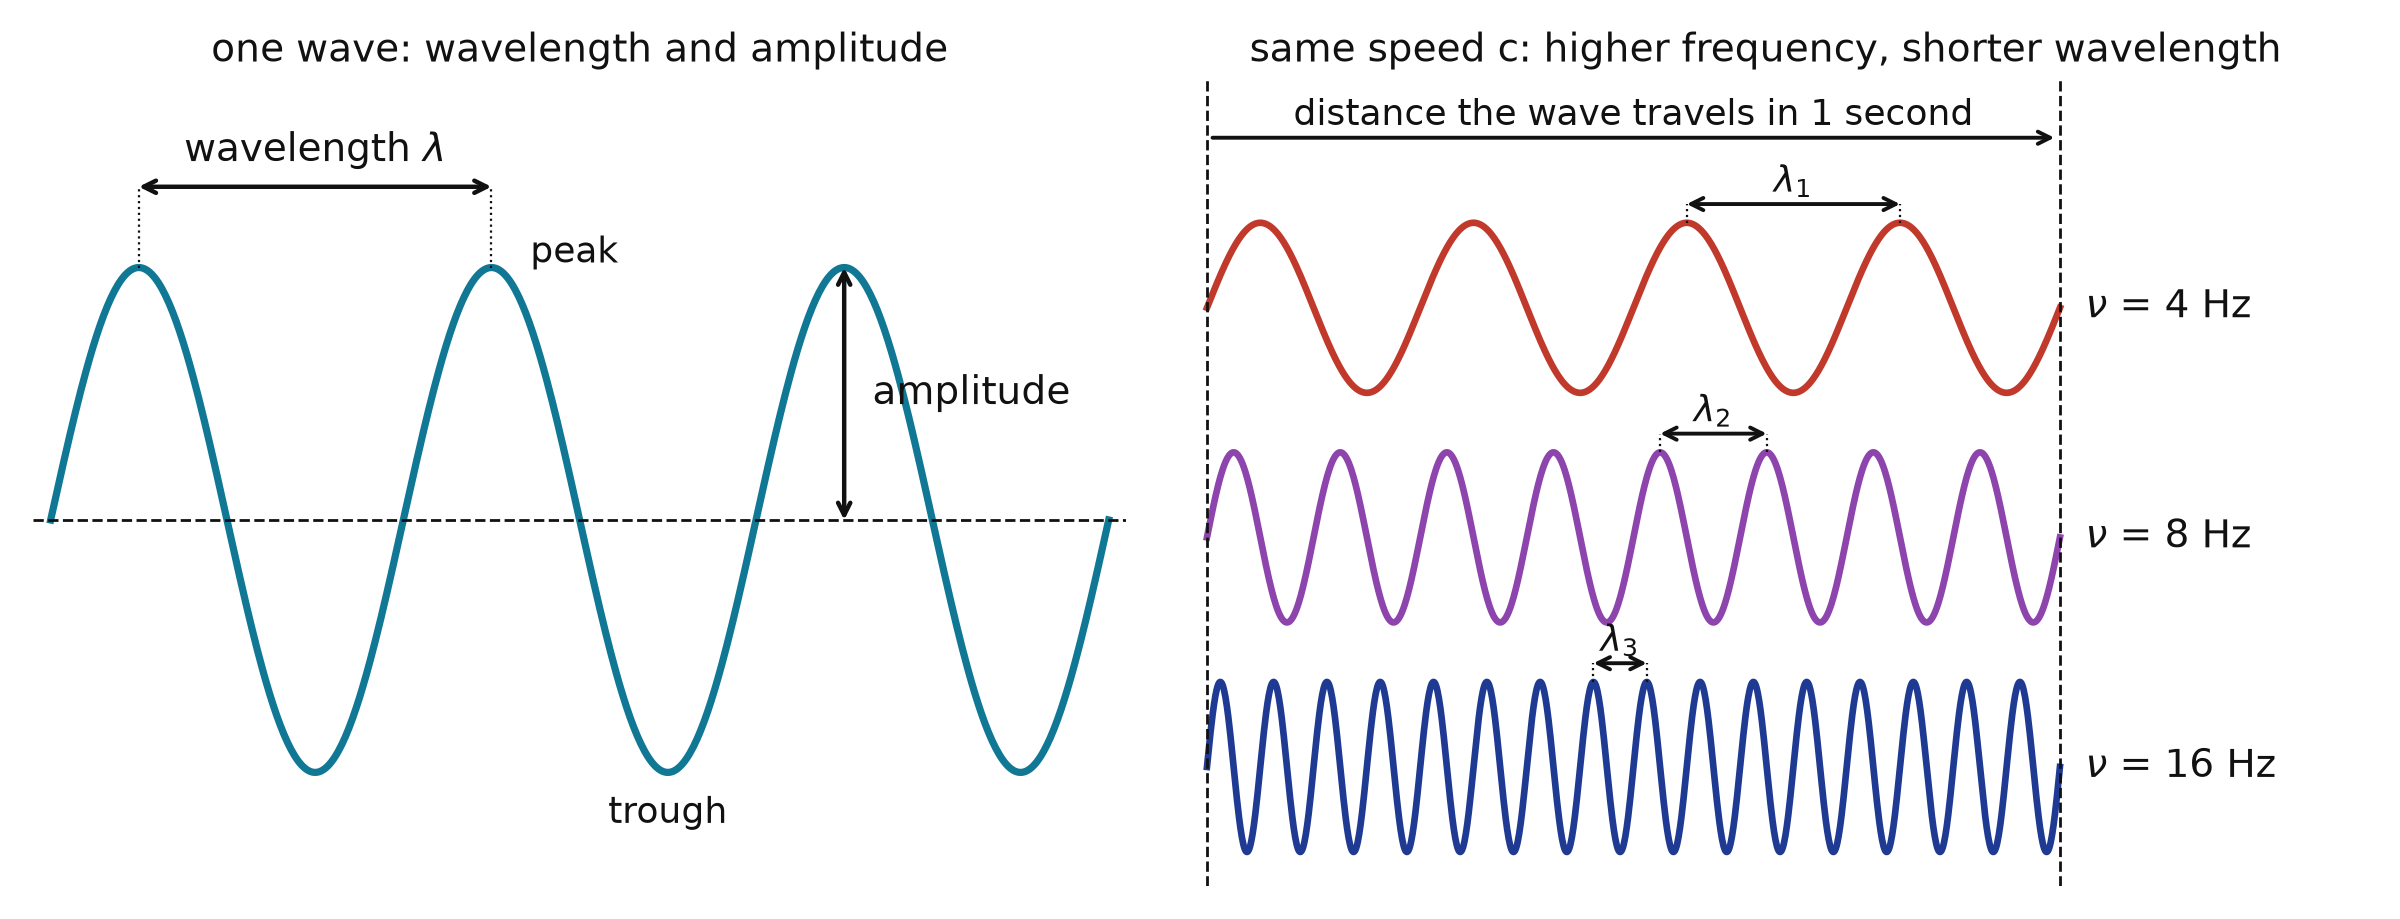
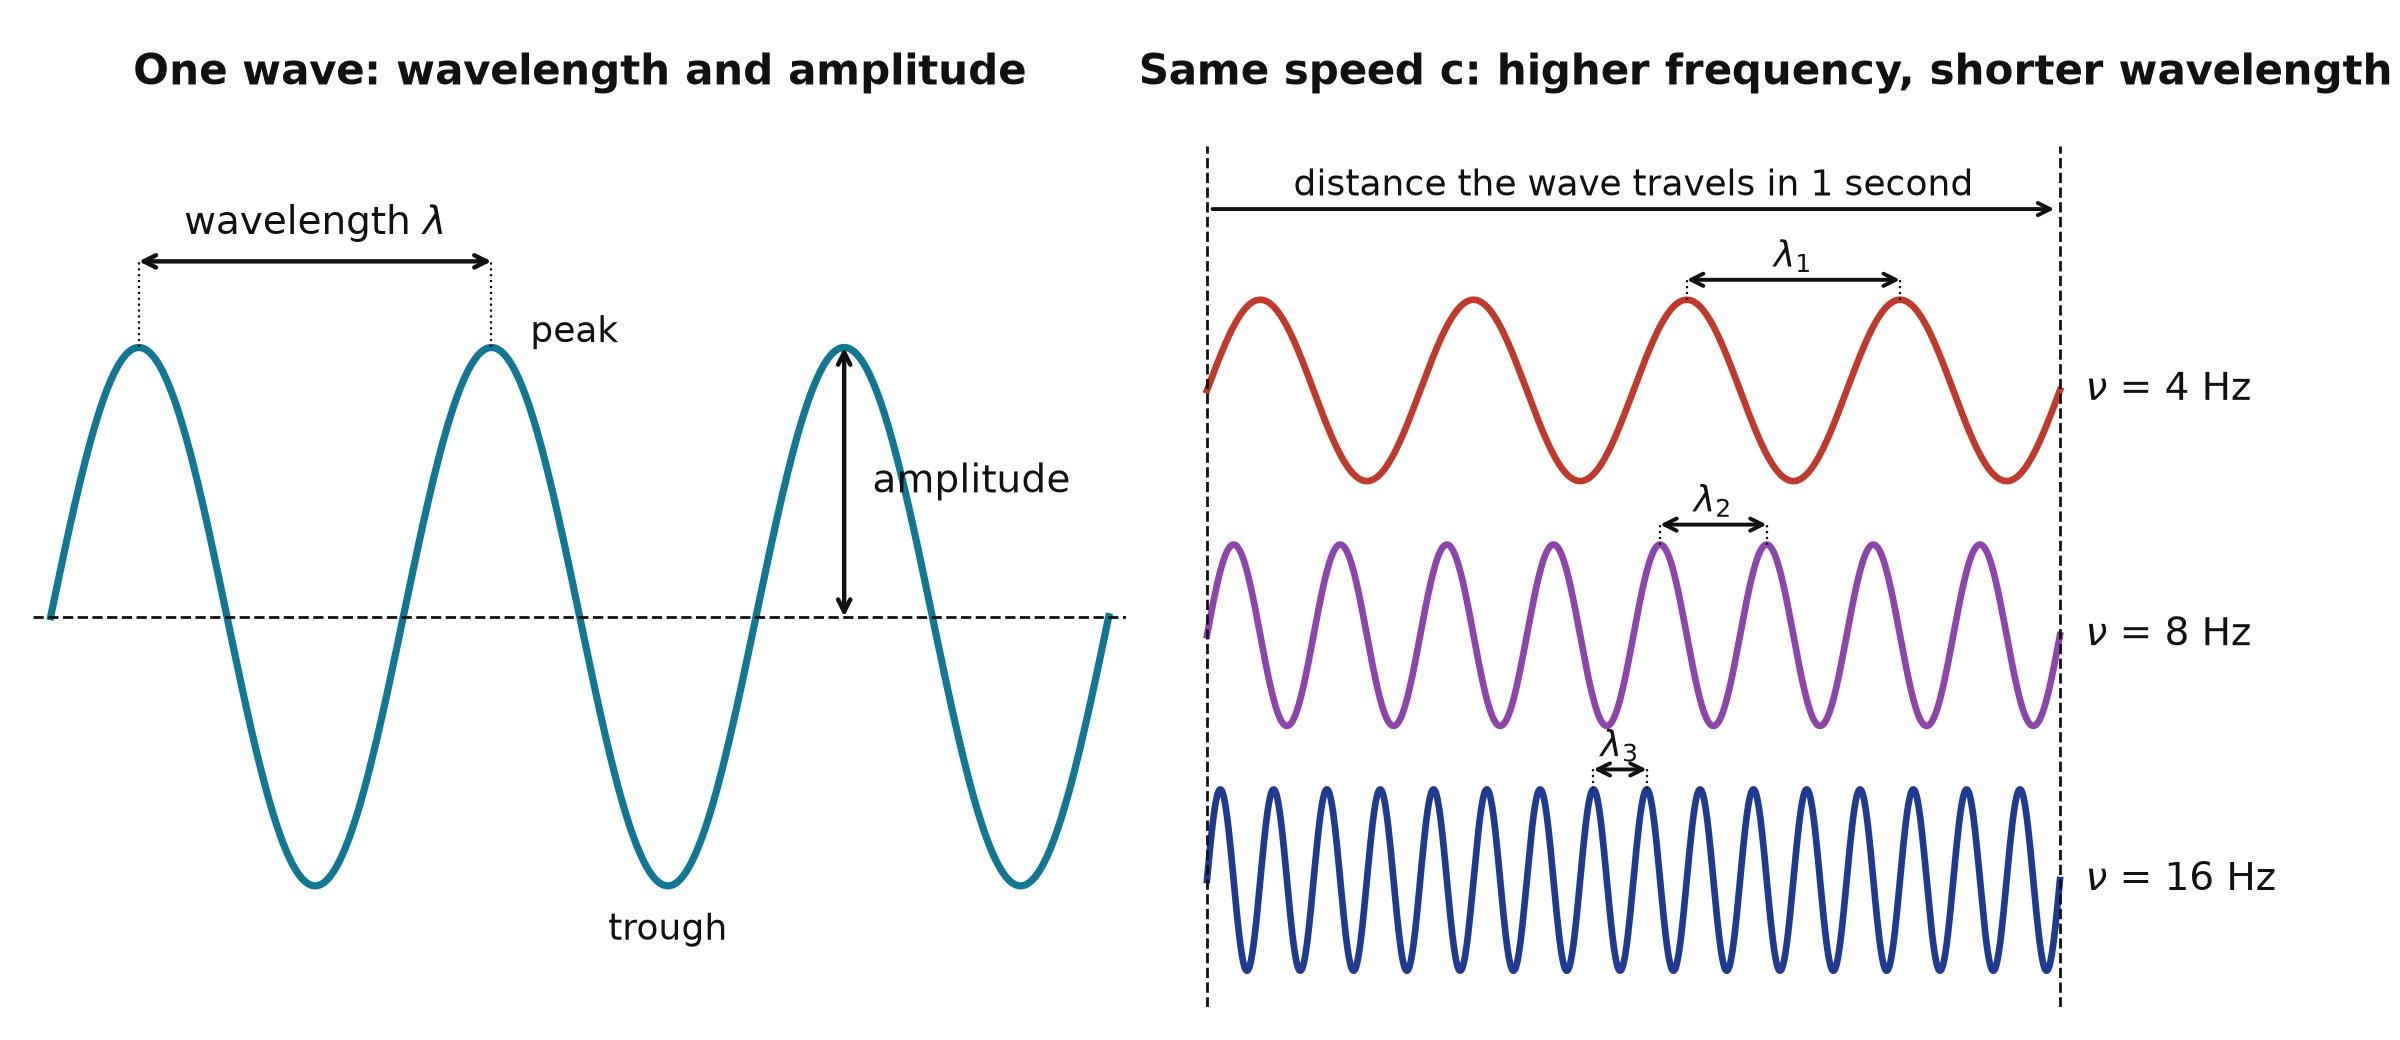
'cleanup quantization'

diff --git a/scripts/make_ch01_figures.py b/scripts/make_ch01_figures.py
@@ -89,9 +89,40 @@ ax.set_xlabel(r"frequency $\nu$ (10$^{14}$ Hz)"); ax.set_ylabel(r"energy density
 ax.legend(frameon=False, fontsize=9.5, loc="center right", title="temperature", title_fontsize=9.5)
 fig.tight_layout(); fig.savefig(f"{OUT}/planck_curves_nu.png", dpi=200)
 
+# ---------------------------------------------------------------- 2c. counting wave modes in a box
+BLACK = "#111111"
+fig, (b1, b2) = plt.subplots(1, 2, figsize=(11, 4.6), gridspec_kw={"width_ratios": [1, 1]})
+L = 1.0; xb = np.linspace(0, L, 400)
+for n in [1, 2, 3, 4]:
+    y0 = -(n - 1) * 1.5
+    b1.plot(xb, y0 + 0.55 * np.sin(n * np.pi * xb / L), color=HOT2COLD[min(n, 4)], lw=2.4)
+    b1.plot([0, L], [y0, y0], color="#bbb", lw=0.8)
+    b1.text(L + 0.05, y0, rf"$n$ = {n}:  $\lambda_n = 2L/{n}$,  $\nu_n = {n}\,c/2L$", va="center", fontsize=12, color=BLACK)
+b1.axvline(0, color=BLACK, lw=2.5); b1.axvline(L, color=BLACK, lw=2.5)
+b1.annotate("", xy=(L, 1.0), xytext=(0, 1.0), arrowprops=dict(arrowstyle="<->", color=BLACK, lw=1.3))
+b1.text(L / 2, 1.1, "box of size L", ha="center", fontsize=12, color=BLACK)
+b1.set_xlim(-0.1, 2.6); b1.set_ylim(-5.3, 1.5); b1.axis("off")
+b1.set_title("Standing waves that fit in a box", fontsize=14, fontweight="bold", color=BLACK, pad=14)
+# mode lattice in 2D: each dot is a mode (n_x, n_y); frequency grows with distance from the origin
+N = 12; R1, R2 = 6.0, 9.0
+nx, ny = np.meshgrid(np.arange(1, N + 1), np.arange(1, N + 1))
+r = np.sqrt(nx**2 + ny**2)
+b2.scatter(nx[r > R2], ny[r > R2], s=14, color="#cccccc")
+b2.scatter(nx[(r > R1) & (r <= R2)], ny[(r > R1) & (r <= R2)], s=18, color=CARDINAL)
+b2.scatter(nx[r <= R1], ny[r <= R1], s=18, color=TEAL)
+th = np.linspace(0, np.pi / 2, 200)
+b2.plot(R1 * np.cos(th), R1 * np.sin(th), color=TEAL, lw=2); b2.plot(R2 * np.cos(th), R2 * np.sin(th), color=CARDINAL, lw=2)
+b2.text(R1 * 0.72 + 0.35, R1 * 0.72 + 0.35, r"$\nu$", color=TEAL, fontsize=14, ha="left", va="bottom", bbox=dict(fc="white", ec="none", pad=1))
+b2.text(R2 * 0.72 + 0.35, R2 * 0.72 + 0.35, r"$\nu + d\nu$", color=CARDINAL, fontsize=14, ha="left", va="bottom", bbox=dict(fc="white", ec="none", pad=1))
+b2.set_xlim(0, N + 1); b2.set_ylim(0, N + 1); b2.set_aspect("equal")
+b2.set_xlabel(r"$n_x$", fontsize=13, color=BLACK); b2.set_ylabel(r"$n_y$", fontsize=13, color=BLACK)
+b2.set_xticks([]); b2.set_yticks([])
+b2.set_title("Each dot is a mode, further out is higher frequency", fontsize=13, fontweight="bold", color=BLACK, pad=14)
+fig.tight_layout(); fig.savefig(f"{OUT}/mode_counting.png", dpi=200)
+
 # ---------------------------------------------------------------- 3. wave definitions
 BLACK = "#111111"
-fig, (a1, a2) = plt.subplots(1, 2, figsize=(12, 4.6), gridspec_kw={"width_ratios": [1, 1.1]})
+fig, (a1, a2) = plt.subplots(1, 2, figsize=(12, 5.2), gridspec_kw={"width_ratios": [1, 1.1]})
 x = np.linspace(0, 3, 600); A = 1.0
 a1.plot(x, A * np.sin(2 * np.pi * x), color=TEAL, lw=2.6)
 a1.axhline(0, color=BLACK, ls="--", lw=1)
@@ -103,7 +134,7 @@ a1.annotate("", xy=(2.25, 1.0), xytext=(2.25, 0.0), arrowprops=dict(arrowstyle="
 a1.text(2.33, 0.5, "amplitude", va="center", color=BLACK, fontsize=14)
 a1.text(1.36, 1.02, "peak", ha="left", fontsize=13, color=BLACK); a1.text(1.75, -1.2, "trough", ha="center", fontsize=13, color=BLACK)
 a1.set_xlim(-0.05, 3.05); a1.set_ylim(-1.45, 1.75); a1.axis("off")
-a1.set_title("one wave: wavelength and amplitude", fontsize=14, color=BLACK)
+a1.set_title("One wave: wavelength and amplitude", fontsize=15, fontweight="bold", color=BLACK, pad=22)
 xs = np.linspace(0, 1, 1200)
 for k, (nu_k, col) in enumerate(zip([4, 8, 16], [HOT2COLD[0], HOT2COLD[2], HOT2COLD[4]])):
     y0 = -k * 2.7
@@ -118,8 +149,9 @@ a2.axvline(0, color=BLACK, ls="--", lw=1); a2.axvline(1, color=BLACK, ls="--", l
 a2.annotate("", xy=(1, 2.0), xytext=(0, 2.0), arrowprops=dict(arrowstyle="->", color=BLACK, lw=1.4))
 a2.text(0.5, 2.15, "distance the wave travels in 1 second", ha="center", fontsize=13, color=BLACK)
 a2.set_xlim(-0.05, 1.36); a2.set_ylim(-6.8, 2.7); a2.axis("off")
-a2.set_title("same speed c: higher frequency, shorter wavelength", fontsize=14, color=BLACK)
-fig.tight_layout(); fig.savefig(f"{OUT}/wave_definitions.png", dpi=200)
+a2.set_title("Same speed c: higher frequency, shorter wavelength", fontsize=15, fontweight="bold", color=BLACK, pad=22)
+fig.tight_layout(h_pad=1.0); fig.subplots_adjust(top=0.86)
+fig.savefig(f"{OUT}/wave_definitions.png", dpi=200)
 
 # ---------------------------------------------------------------- 4. Bohr standing waves
 fig, axes = plt.subplots(1, 2, figsize=(9, 4.4))

diff --git a/ch01/02-the-need-for-quantization.md b/ch01/02-the-need-for-quantization.md
@@ -132,19 +132,33 @@ Predictions of classical and quantum mechanics diverge in the high-frequency (sh
 
 - **What is radiation in classical mechanics?** Radiation is considered a wave with frequency $\nu$. In a heated body, naturally vibrating springs (which represent atoms or molecules) generate waves with the same frequency.
 
-:::{figure} ./images/phonons.gif
-:label: fig-the-need-for-quantization-7
-:alt: ultraviolet catastrophe
-:width: 60%
+:::{tip} **How many waves fit in a box?**
 
-Visualization of atomic vibrations in a solid body. These vibrational modes are called phonons, not to be confused with the photons introduced in the next section.
+```{figure} ./images/mode_counting.png
+:alt: standing waves in a box and the lattice of allowed modes
+:width: 95%
+
+Left: only waves with a node at each wall fit in a box of size $L$, so $\lambda_n = 2L/n$ and $\nu_n = n\,c/2L$. Right: in two dimensions each allowed mode is a dot $(n_x, n_y)$, and its frequency is proportional to the distance from the origin. The modes between $\nu$ and $\nu + d\nu$ fill a thin ring.
+```
+
+1. A wave fits in the box only if a whole number of half-wavelengths spans it: $n = 1, 2, 3, \ldots$ in each direction.
+2. The frequency of a mode $(n_x, n_y, n_z)$ is $\nu = \frac{c}{2L}\sqrt{n_x^2 + n_y^2 + n_z^2}$, so all modes with frequency below $\nu$ sit inside a sphere of radius $2L\nu/c$ in "mode space."
+3. The number of modes below $\nu$ is the volume of that sphere, $\propto \nu^3$. The number in a thin shell $[\nu, \nu + d\nu]$ is its surface times $d\nu$, $\propto \nu^2 d\nu$.
 :::
 
-- **Packing wave modes in a box.** One can fit more high-frequency (short-wavelength) waves in the box than low-frequency ones. The number of waves we can fit in a cubic box in the frequency region $[\nu, \nu+d\nu]$ can be estimated to be $\sim d(\nu^3) \sim \nu^2 d\nu$. The constant of proportionality requires a few more steps to derive, which we skip, writing only the final result:
+- **Packing wave modes in a box.** More high-frequency (short-wavelength) waves fit in the box than low-frequency ones: the count in the interval $[\nu, \nu+d\nu]$ grows as $d(\nu^3) \sim \nu^2 d\nu$. Working out the constant (two polarizations, one octant of the sphere, division by the box volume) gives
 
 $$
 dN_{\nu} = \frac{8\pi}{c^3} \cdot \nu^2 d\nu
 $$   
+
+:::{figure} ./images/phonons.gif
+:label: fig-the-need-for-quantization-7
+:alt: atomic vibrations in a solid
+:width: 60%
+
+Visualization of atomic vibrations in a solid body. These vibrational modes are called phonons, not to be confused with the photons introduced in the next section. Each mode is one of the dots counted above.
+:::
 
  - **Equipartition of energy.** From thermodynamics we know that in equilibrium each degree of freedom, or each oscillator, gets the same energy $k_BT$, where $k_B$ is the Boltzmann constant. 
 
@@ -248,20 +262,86 @@ This is Planck's law, which describes the spectral density of radiation emitted 
 
 $$\langle E \rangle = \Big[ \frac{h\nu}{e^{\frac{h\nu}{ kT}} - 1}\Big] $$
 
-- With this expression we end up with a distribution of oscillator energies that tends to zero in the high-frequency limit.
+- With this expression we end up with a distribution of oscillator energies that tends to zero in the high-frequency limit. The same law can be written per unit frequency or per unit wavelength (substitute $\nu = c/\lambda$ and $d\nu = c\,d\lambda/\lambda^2$):
+
+::::{tab-set}
+:::{tab-item} per unit frequency
+:sync: nu
 
 $$ \rho_{\nu}(T) = \frac{8\pi \nu^2}{c^3} \cdot \Big[\frac{h\nu}{e^{\frac{h\nu}{kT}} - 1} \Big]$$
-
-- You can also express the distribution in terms of wavelength by making the substitution $\nu = c/\lambda$:
+:::
+:::{tab-item} per unit wavelength
+:sync: lam
 
 $$ \rho_{\lambda}(T) = \frac{8 \pi hc}{\lambda^5} \cdot \Big[ \frac{1}{e^{\frac{hc}{\lambda kT}} - 1}\Big]$$
+:::
+::::
 
 
 - The expressions $\rho_{\lambda}(T)d\lambda$ and $\rho_{\nu}(T)d\nu$ have units of energy per volume, which is why they are often referred to as the **energy density** of radiation. By integrating over the entire spectrum (e.g., all frequencies or wavelengths) we obtain the total energy of radiation per volume!
 
 $$\int^{\infty}_0 \rho_{\nu}(T)d\nu = \frac{4\sigma}{c} T^4 $$
 
-- The power radiated per unit surface area of the black body is the more familiar **Stefan-Boltzmann law**, $P/A = \sigma T^4$, where $\sigma=5.67 \cdot 10^{-8}\, \text{W m}^{-2} \text{K}^{-4}$ is the Stefan-Boltzmann constant. Doubling the temperature increases the radiated power sixteenfold.
+- The power radiated per unit surface area of the black body is the more familiar **Stefan-Boltzmann law**, $P/A = \sigma T^4$, where $\sigma=5.67 \cdot 10^{-8}\, \text{W m}^{-2} \text{K}^{-4}$ is the Stefan-Boltzmann constant. Doubling the temperature increases the radiated power sixteenfold. Try it: the shaded area below is the integral, and the readout compares it with the area at 3000 K.
+
+```{marimo-config}
+---
+pyproject: |
+  requires-python = ">=3.10"
+  dependencies = [
+      "numpy",
+      "matplotlib",
+  ]
+---
+```
+
+```{marimo} python
+:hide-code: true
+
+import marimo as mo
+import numpy as np
+import matplotlib.pyplot as plt
+plt.rcParams["figure.dpi"] = 150
+```
+
+```{marimo} python
+:hide-code: true
+
+T_area = mo.ui.slider(3000, 7000, step=100, value=4500, show_value=True, label="temperature T (K)")
+T_area
+```
+
+```{marimo} python
+:hide-code: true
+
+h_a, c_a, kB_a = 6.626e-34, 2.998e8, 1.381e-23
+T_ref = 3000
+nu_a = np.linspace(1e12, 2.5e15, 1500)
+def planck_nu(T_):
+    return 8 * np.pi * h_a * nu_a**3 / c_a**3 / np.expm1(h_a * nu_a / (kB_a * T_))
+rho_ref, rho_T = planck_nu(T_ref), planck_nu(T_area.value)
+area_ref, area_T = np.trapezoid(rho_ref, nu_a), np.trapezoid(rho_T, nu_a)
+fig5, ax5 = plt.subplots(figsize=(7, 3.6))
+ax5.fill_between(nu_a / 1e14, rho_T, color="#C8102E", alpha=0.25)
+ax5.plot(nu_a / 1e14, rho_T, color="#C8102E", lw=2, label=f"T = {T_area.value} K")
+ax5.fill_between(nu_a / 1e14, rho_ref, color="#107895", alpha=0.35)
+ax5.plot(nu_a / 1e14, rho_ref, color="#107895", lw=2, label=f"T = {T_ref} K (reference)")
+ax5.set_xlim(0, 22)
+ax5.set_ylim(0, 1.05 * planck_nu(7000).max())
+ax5.set_yticks([])
+ax5.set_xlabel(r"frequency $\nu$ ($10^{14}$ Hz)")
+ax5.set_ylabel(r"energy density $\rho_\nu$")
+ax5.set_title(f"Fig. Area under the Planck curve grows as $T^4$: {area_T / area_ref:.1f} times the area at {T_ref} K", fontsize=10)
+ax5.legend(frameon=False, fontsize=9, loc="upper right")
+fig5.tight_layout()
+fig5
+```
+
+```{marimo} python
+:hide-code: true
+
+mo.md(f"Temperature ratio {T_area.value / T_ref:.2f}, so $T^4$ predicts **{(T_area.value / T_ref) ** 4:.1f}** times the area; the numerical integral gives **{area_T / area_ref:.1f}**.")
+```
 
 > In some books you may also find black body radiation characterized via the radiation flux, measured per unit wavelength and per unit solid angle: $B_{\lambda} = \frac{c}{4\pi}  \cdot \rho_{\lambda}$
 
@@ -284,26 +364,6 @@ $$\lambda_{max} = \frac{b}{T}$$
 ### Explore black body radiation
 
 Drag the temperature and watch three things at once: the Planck curve (solid) rises and its peak slides to shorter wavelengths, following Wien's law; the visible band lights up only above a few thousand kelvin; and the classical Rayleigh-Jeans prediction (dashed) agrees with Planck at long wavelengths but shoots off the top of the plot at short ones. That divergence is the ultraviolet catastrophe.
-
-```{marimo-config}
----
-pyproject: |
-  requires-python = ">=3.10"
-  dependencies = [
-      "numpy",
-      "matplotlib",
-  ]
----
-```
-
-```{marimo} python
-:hide-code: true
-
-import marimo as mo
-import numpy as np
-import matplotlib.pyplot as plt
-plt.rcParams["figure.dpi"] = 150
-```
 
 ```{marimo} python
 :hide-code: true
@@ -345,39 +405,6 @@ fig1
 
 The black body is used as a standard against which the absorption of real bodies is compared. To a good approximation, stars radiate like black bodies, so we can use blackbody radiation as a model to infer the temperatures of stars from their colors. Find out more in this video on [Visible Light Waves](https://www.youtube.com/watch?v=PMtC34pzKGc).
 :::
-
-### Quantized oscillators explain heat capacities too
-
-- Planck's quantized oscillator did more than fix the radiation curve. Classical equipartition says every atom in a solid, vibrating in three directions, stores $3k_BT$ of energy, so the molar heat capacity should be a constant $C_V = 3R \approx 25$ J/(mol K). This is the **Dulong-Petit law**, and it works at room temperature for most metals.
-- Yet measurements showed $C_V$ falling toward **zero** as $T \to 0$, and diamond fell far short of $3R$ even at room temperature. Classical physics had no answer.
-- In 1907 Einstein modeled each atom as a Planck oscillator of frequency $\nu$ and replaced $k_BT$ with Planck's average energy. Differentiating with respect to $T$ gives
-
-$$C_V = 3R \left(\frac{\theta_E}{T}\right)^2 \frac{e^{\theta_E/T}}{\left(e^{\theta_E/T}-1\right)^2}, \qquad \theta_E = \frac{h\nu}{k_B}$$
-
-- The **Einstein temperature** $\theta_E$ marks where quantization kicks in: for $T \gg \theta_E$ the formula returns Dulong-Petit, for $T \ll \theta_E$ the oscillators freeze out and $C_V \to 0$. Diamond's stiff bonds give a large $\nu$, hence a high $\theta_E$, which is why it looks "quantum" already at room temperature.
-
-```{marimo} python
-:hide-code: true
-
-T_e = np.linspace(1, 1500, 600)
-fig2, ax2 = plt.subplots(figsize=(6.5, 3.4))
-for theta_e, name_e in [(240, "copper"), (290, "aluminum"), (1320, "diamond")]:
-    x_e = theta_e / T_e
-    cv_e = x_e**2 * np.exp(-x_e) / np.expm1(-x_e) ** 2
-    ax2.plot(T_e, cv_e, lw=2, label=f"{name_e}, $\\theta_E$ = {theta_e} K")
-ax2.axhline(1, color="gray", ls="--", lw=1)
-ax2.text(1480, 1.03, "Dulong-Petit limit", fontsize=8, color="gray", ha="right")
-ax2.axvline(298, color="gray", lw=0.8, ls=":")
-ax2.text(305, 0.08, "room T", fontsize=8, color="gray")
-ax2.set_xlim(0, 1500)
-ax2.set_ylim(0, 1.15)
-ax2.set_xlabel("temperature T (K)")
-ax2.set_ylabel(r"$C_V / 3R$")
-ax2.set_title("Fig. Einstein heat capacity of three solids, quantization freezes out vibrations at low T", fontsize=10)
-ax2.legend(frameon=False, fontsize=9, loc="lower right")
-fig2.tight_layout()
-fig2
-```
 
 ### Rayleigh Scattering and the Color of the Sky
 
@@ -522,3 +549,24 @@ The Sun has radius $6.96 \times 10^8$ m and a surface temperature of about 5770 
 | Boltzmann constant           | $k_B$    | $1.381 \cdot 10^{-23}\, \text{J/K}$                  |
 | Stefan-Boltzmann constant    | $\sigma$ | $5.67 \cdot 10^{-8}\, \text{W m}^{-2}\text{K}^{-4}$ |
 | Wien's displacement constant | $b$      | $2.898 \cdot 10^{-3}\, \text{m K}$                   |
+
+## Extra: quantized oscillators explain heat capacities too
+
+:::{admonition} Einstein's 1907 heat capacity model (optional reading)
+:class: dropdown tip
+
+- Planck's quantized oscillator did more than fix the radiation curve. Classical equipartition says every atom in a solid, vibrating in three directions, stores $3k_BT$ of energy, so the molar heat capacity should be a constant $C_V = 3R \approx 25$ J/(mol K). This is the **Dulong-Petit law**, and it works at room temperature for most metals.
+- Yet measurements showed $C_V$ falling toward **zero** as $T \to 0$, and diamond fell far short of $3R$ even at room temperature. Classical physics had no answer.
+- In 1907 Einstein modeled each atom as a Planck oscillator of frequency $\nu$ and replaced $k_BT$ with Planck's average energy. Differentiating with respect to $T$ gives
+
+$$C_V = 3R \left(\frac{\theta_E}{T}\right)^2 \frac{e^{\theta_E/T}}{\left(e^{\theta_E/T}-1\right)^2}, \qquad \theta_E = \frac{h\nu}{k_B}$$
+
+- The **Einstein temperature** $\theta_E$ marks where quantization kicks in: for $T \gg \theta_E$ the formula returns Dulong-Petit, for $T \ll \theta_E$ the oscillators freeze out and $C_V \to 0$. Diamond's stiff bonds give a large $\nu$, hence a high $\theta_E$, which is why it looks "quantum" already at room temperature.
+
+```{figure} ./images/einstein_heat_capacity.png
+:alt: Einstein heat capacity of copper, aluminum, and diamond versus temperature
+:width: 75%
+
+Einstein heat capacity of three solids. Vibrations freeze out below the Einstein temperature, and diamond is still far from the classical limit at room temperature.
+```
+:::
